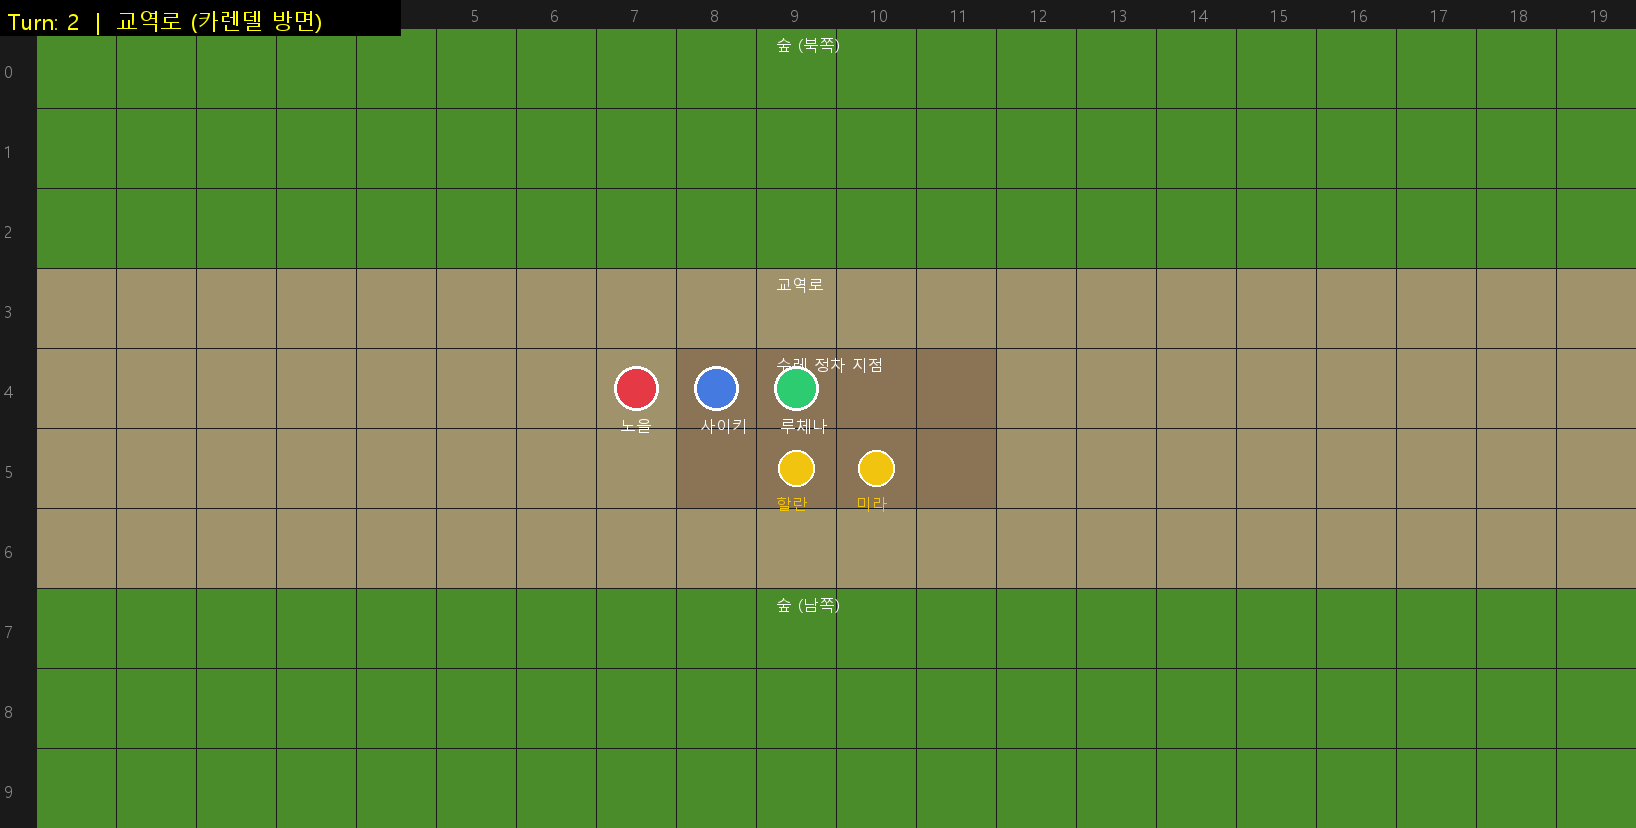
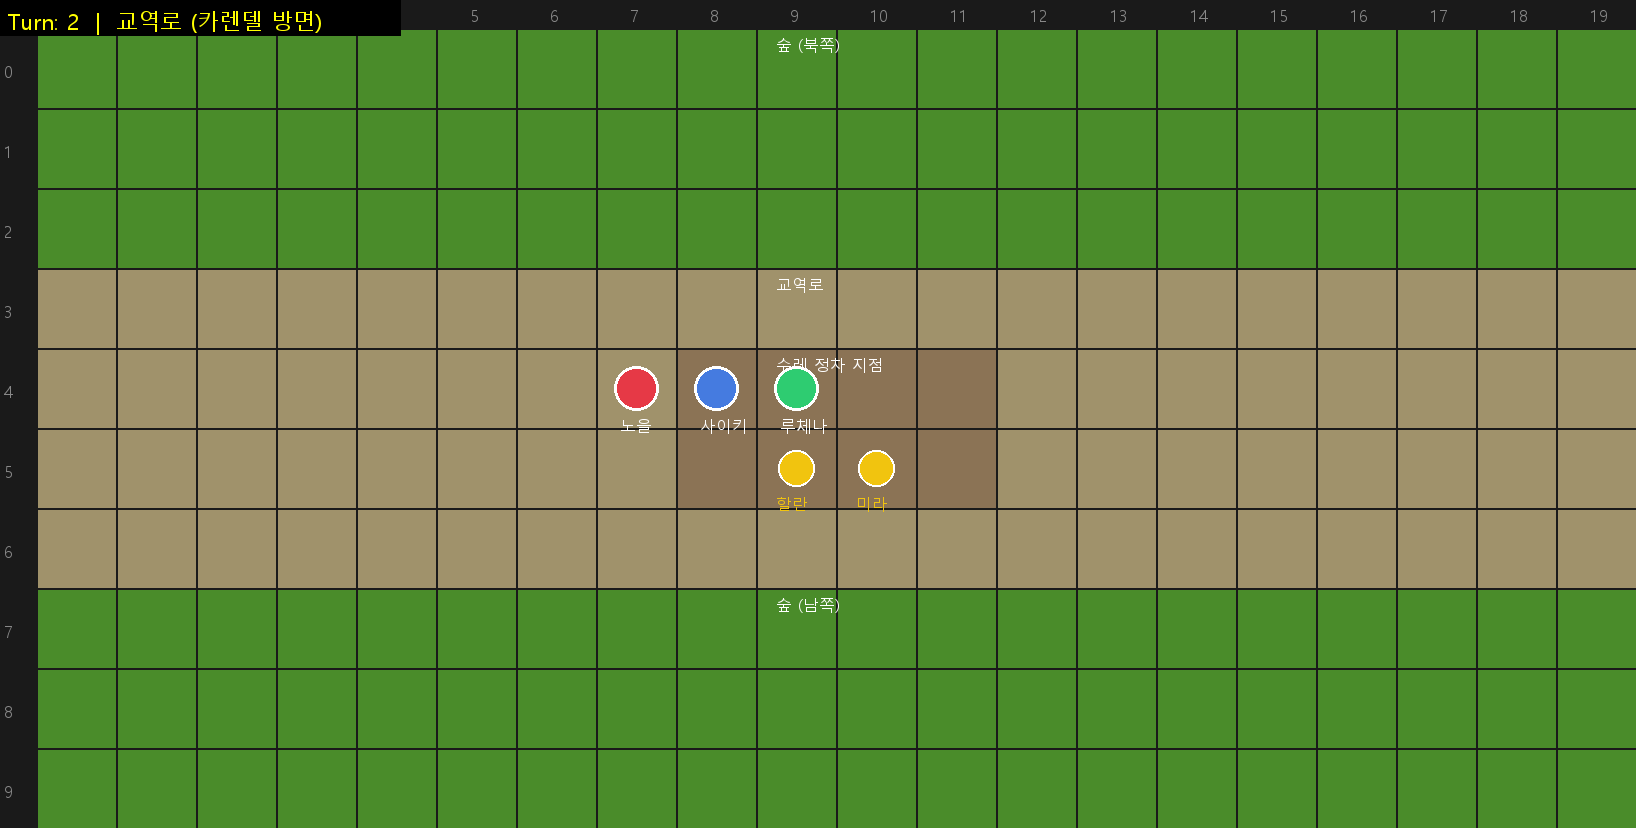
fix: 맵 image-rendering:pixelated 제거 + 격자선 2px
- 확대 시 텍스트 깨짐 해결 (pixelated → smooth)
- 축소 시 격자선 안 보이는 문제 해결 (1px → 2px)

diff --git a/templates/index.html b/templates/index.html
@@ -376,7 +376,6 @@
             height: auto;
             border-radius: 8px;
             border: 2px solid #333;
-            image-rendering: pixelated;
             cursor: pointer;
         }
         .sidebar-map img:hover { border-color: #e94560; }
@@ -397,7 +396,6 @@
             max-width: 90vw;
             max-height: 90vh;
             object-fit: contain;
-            image-rendering: pixelated;
             border: 3px solid #e94560;
             border-radius: 12px;
         }

diff --git a/map_generator.py b/map_generator.py
@@ -96,10 +96,10 @@ class MapGenerator:
         # Draw grid + 좌표
         for i in range(map_w + 1):
             x = i * self.tile_size + margin_left
-            draw.line([(x, margin_top), (x, img_h)], fill="#1a1a1a", width=1)
+            draw.line([(x, margin_top), (x, img_h)], fill="#1a1a1a", width=2)
         for i in range(map_h + 1):
             y = i * self.tile_size + margin_top
-            draw.line([(margin_left, y), (img_w, y)], fill="#1a1a1a", width=1)
+            draw.line([(margin_left, y), (img_w, y)], fill="#1a1a1a", width=2)
 
         # 가로 좌표 (상단)
         for i in range(map_w):
